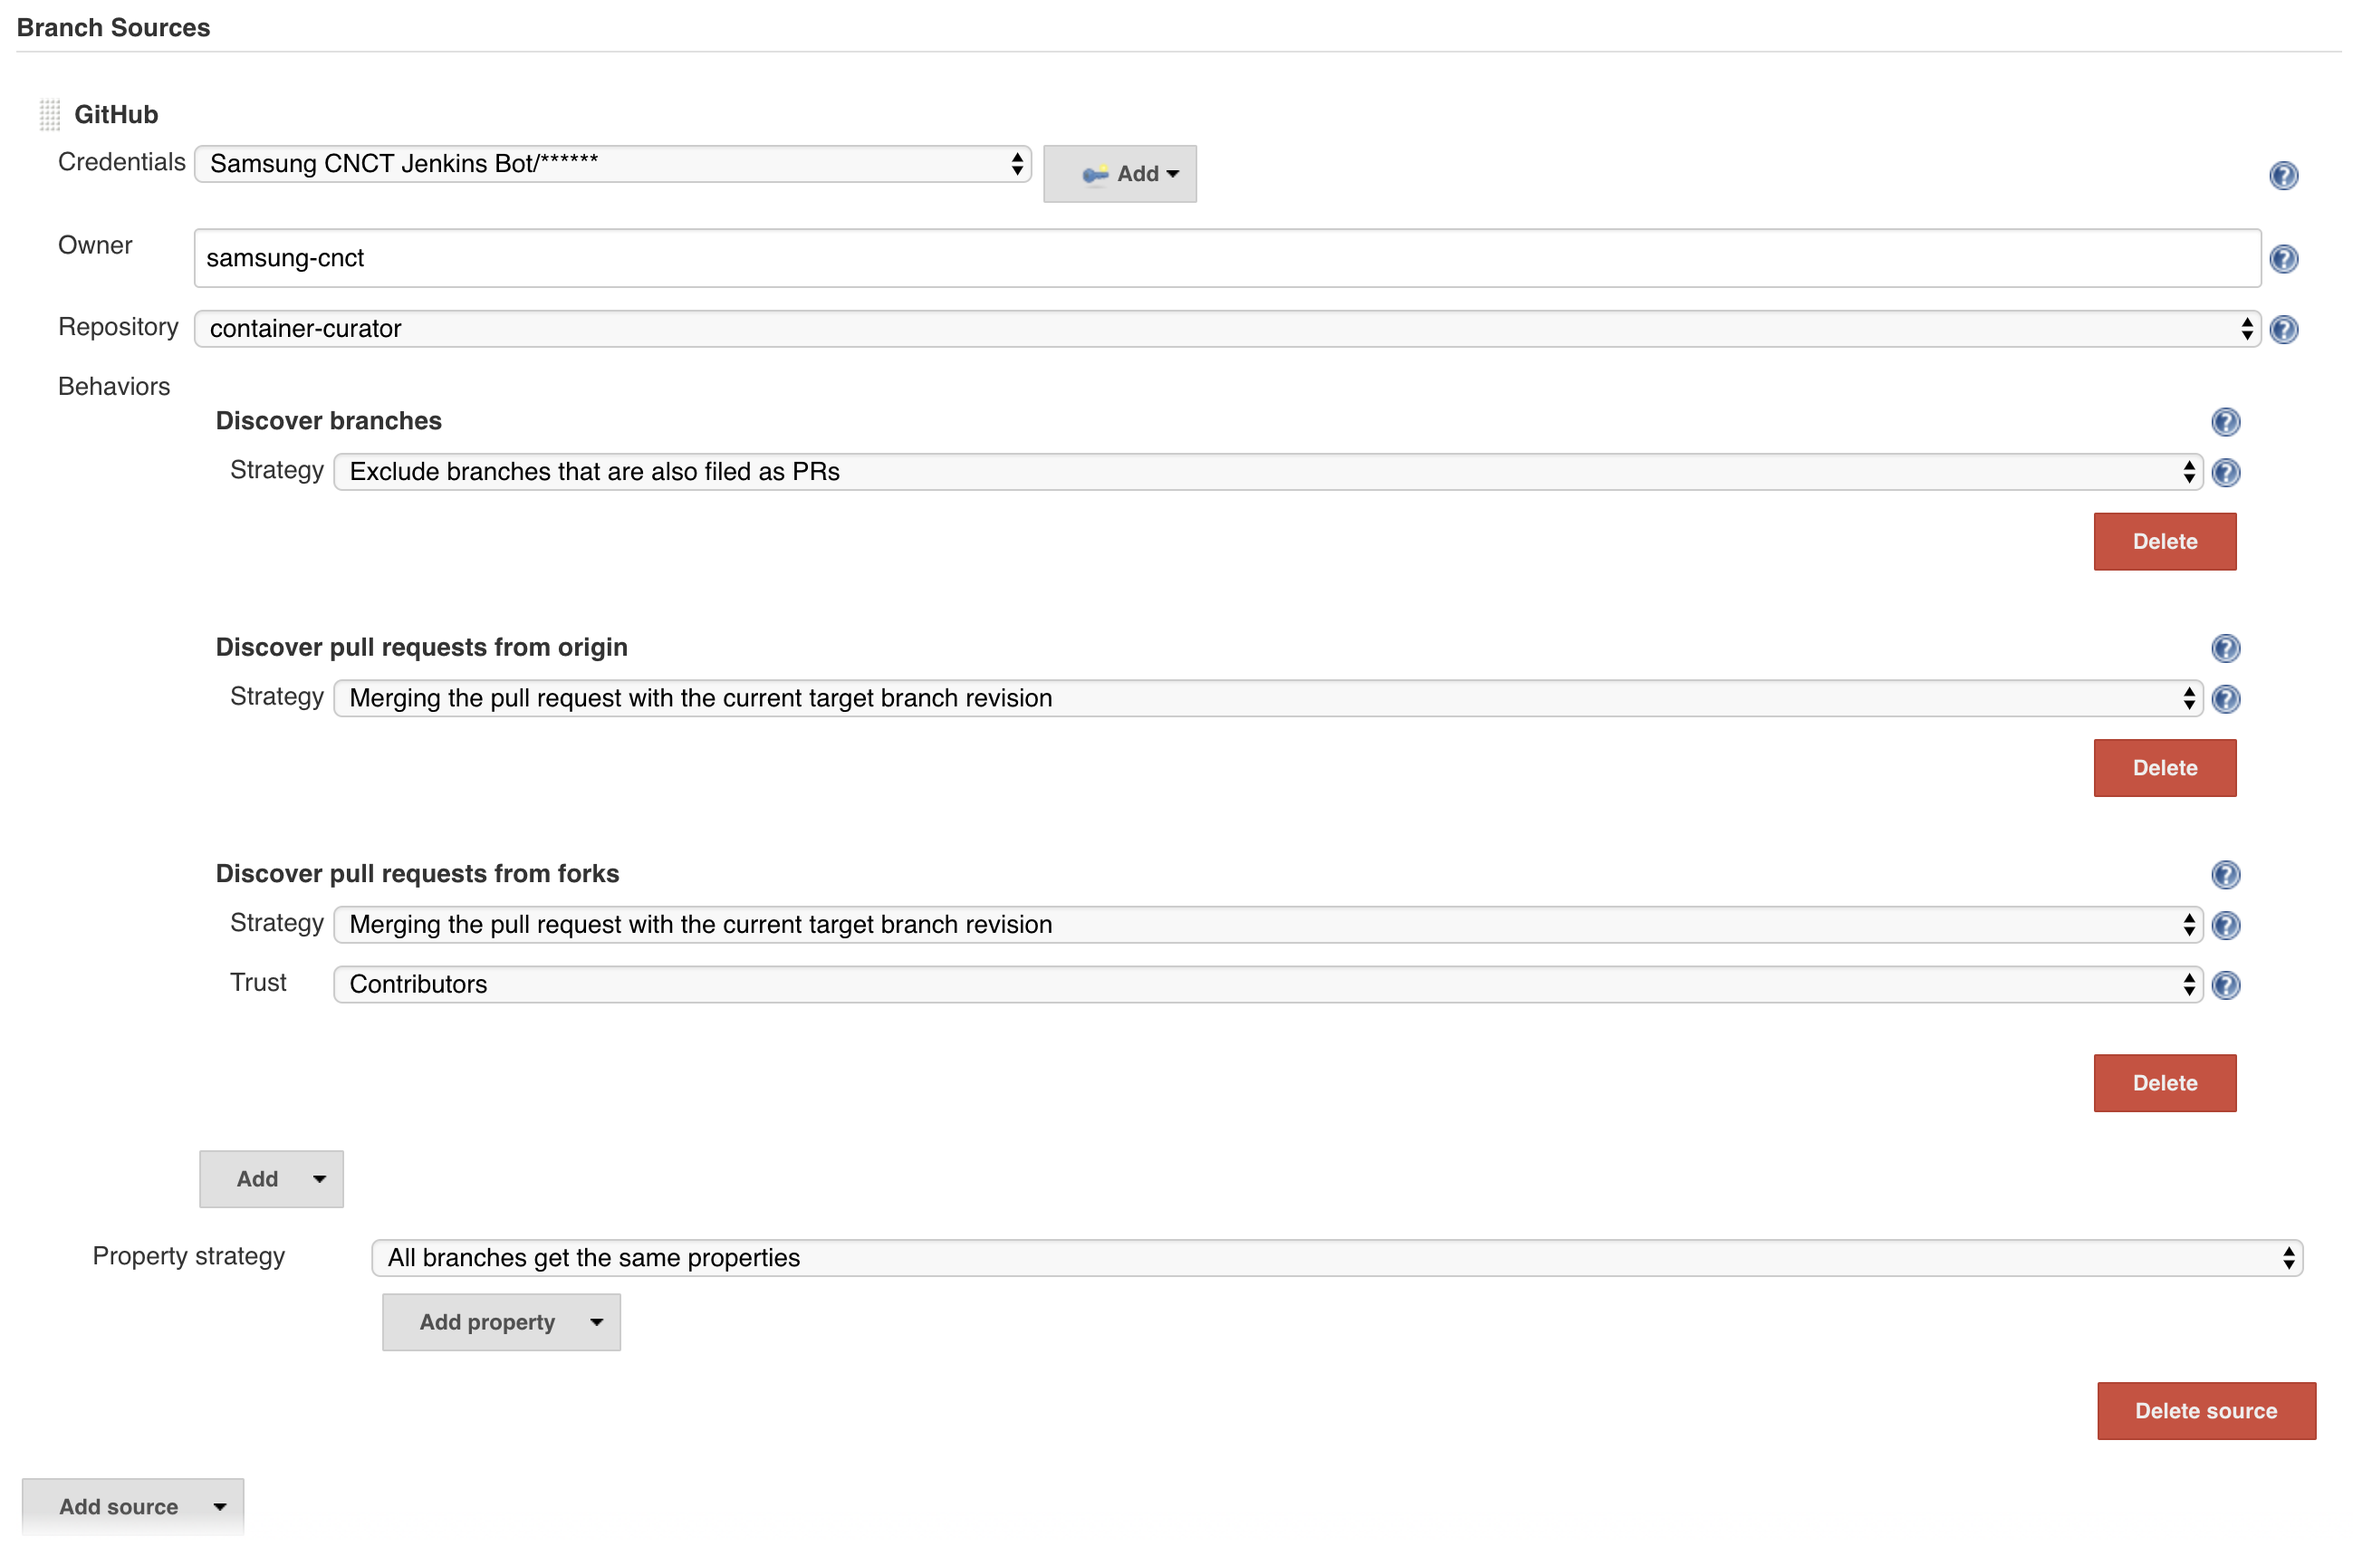
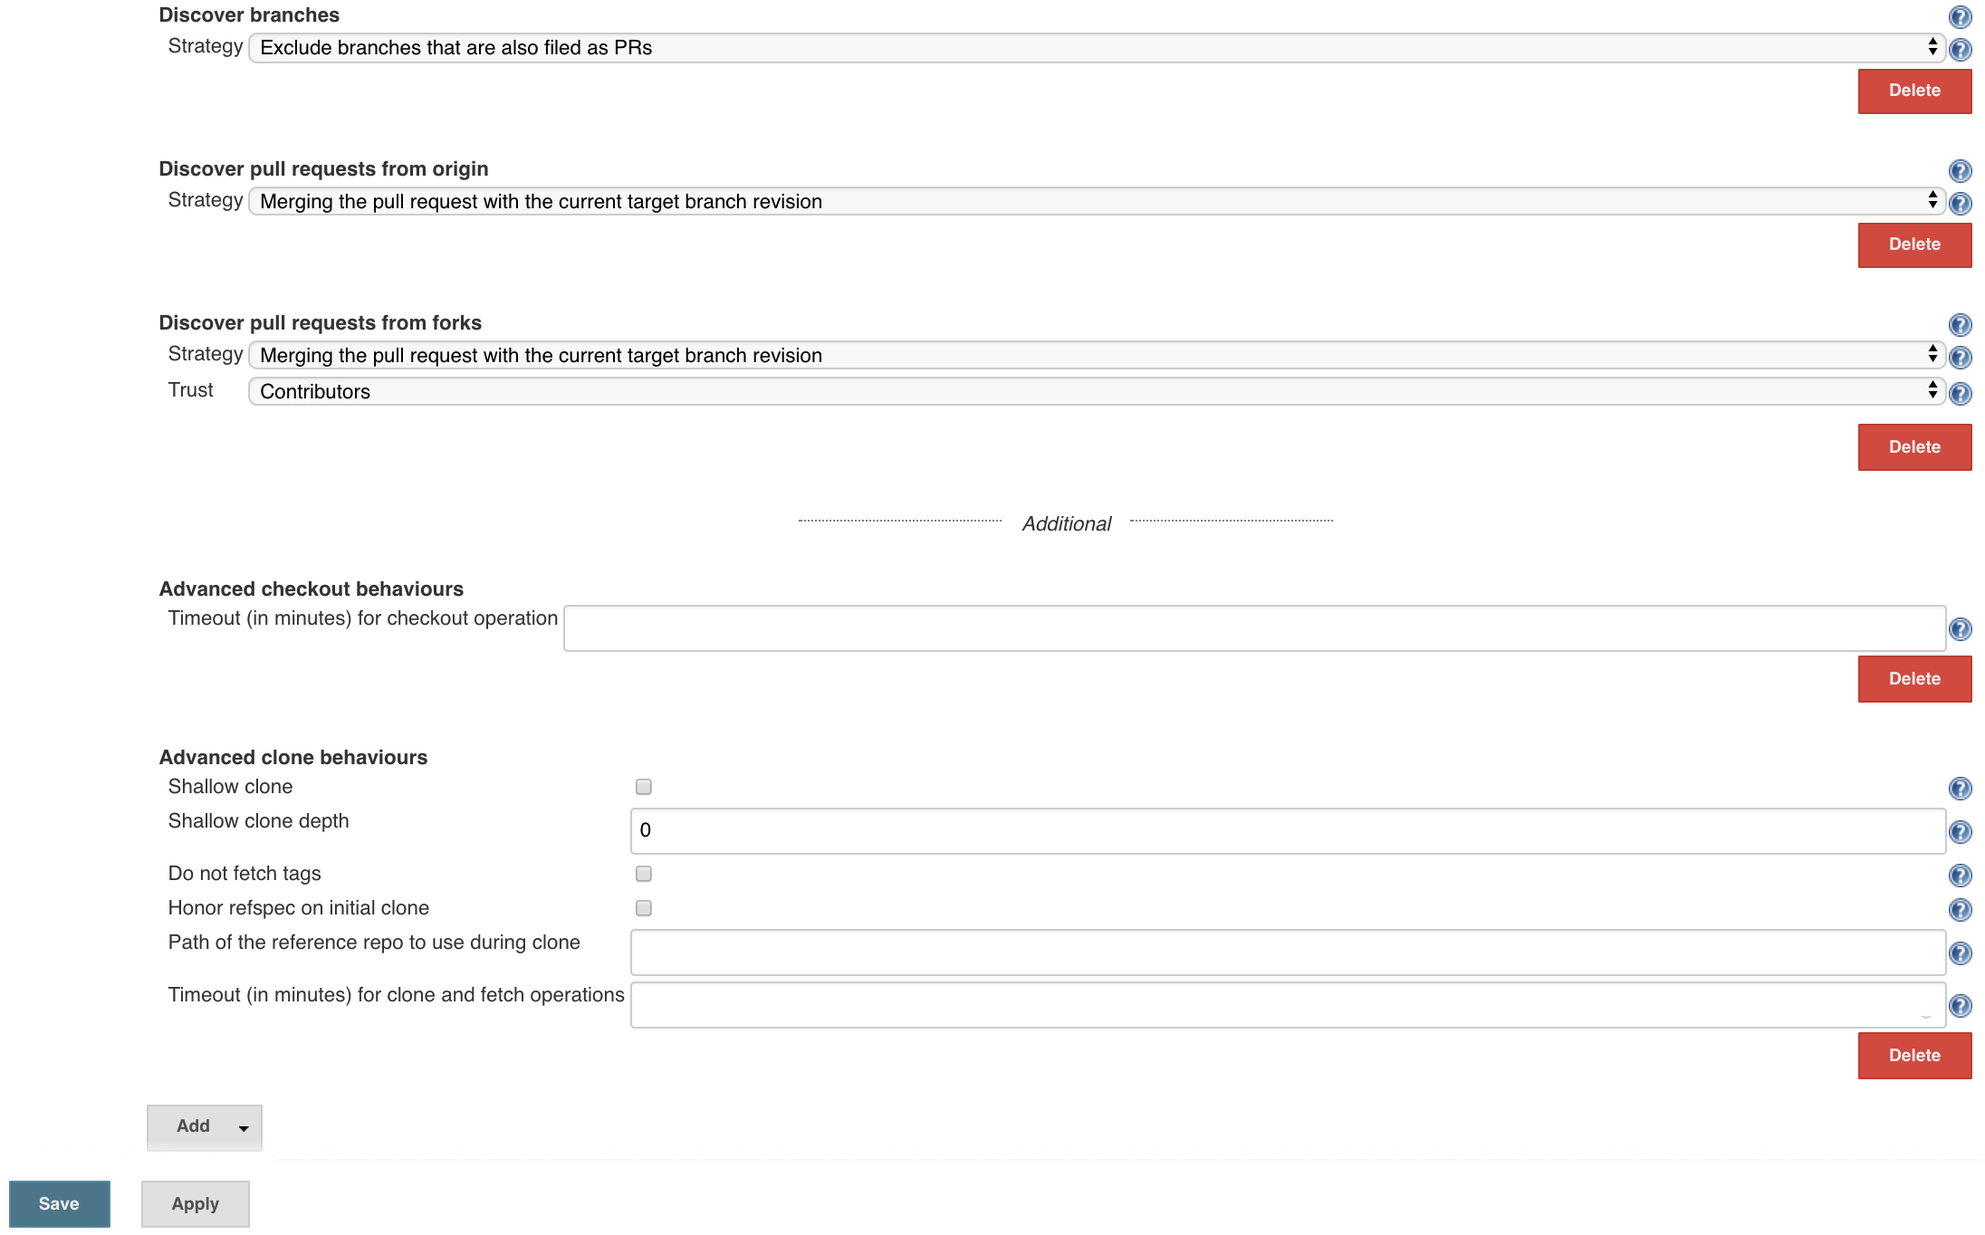
Jenkins GitHub checkout and clone behaviors, and GitHub team permissions. (#23)
* GitHub branch source checkout and clone behaviors.

diff --git a/docs/jenkins.md b/docs/jenkins.md
@@ -76,8 +76,10 @@ look at https://github.com/samsung-cnct/chart-fluent-bit.
   * Once you add this, you may need to go back and actually select it.
 * _Set an owner, e.g. `samsung-cnct`_
   * Using anonymous access to github may result in throttling
-* _Select your repository, eg "container-zabra" or "chart-zabra"_
-
+* _Select your repository, e.g. "container-zabra", "chart-zabra", etc._
+* _Under the GitHub branch source, add the additional behaviors "Advanced
+checkout behaviors" and "Advanced clone behviors", but do not change their
+settings._
 ![screenshot](images/jenkins/github-branch-source.png)
 
 ### Add Registry Credentials to Pipeline Model definitions

diff --git a/docs/github.md b/docs/github.md
@@ -16,6 +16,8 @@ add `commontools` as a team with admin privileges (required for
 [slack](./docs/slack.md) notifications, and `kraken-reviewers` as a team
 with write privileges (required for [CODEOWNERS](./CODEOWNERS)).
 
+![screenshot](images/github/github-teams.png)
+
 ## Jenkins Webhooks
 
 Within your GitHub repository, go to settings and add the following webhooks:
